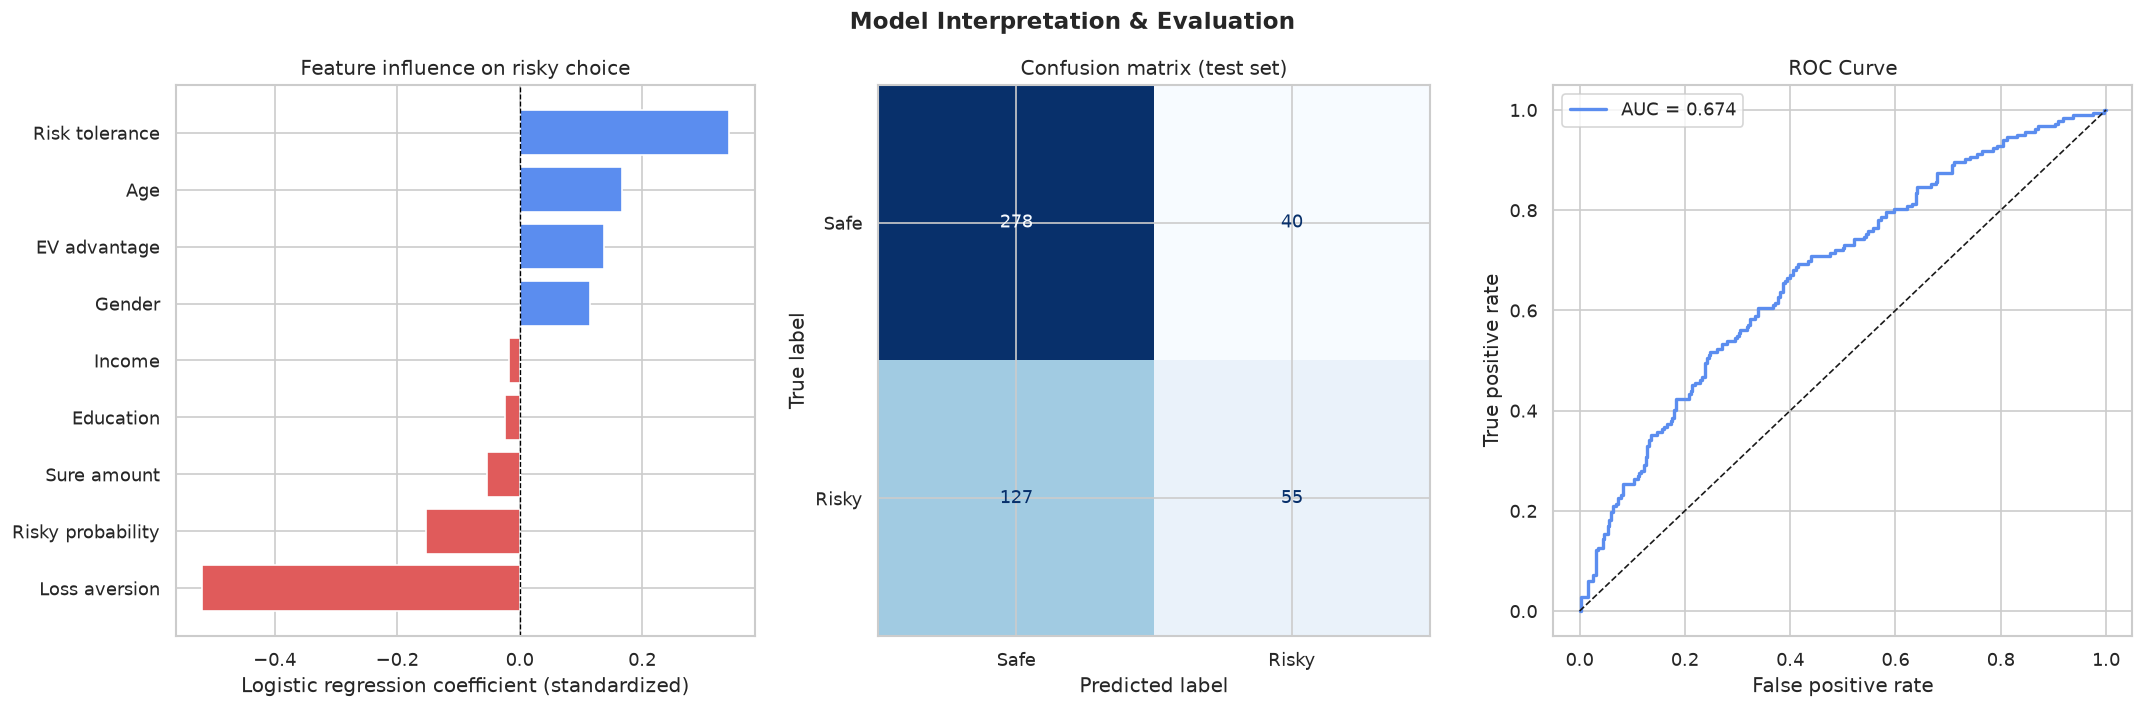
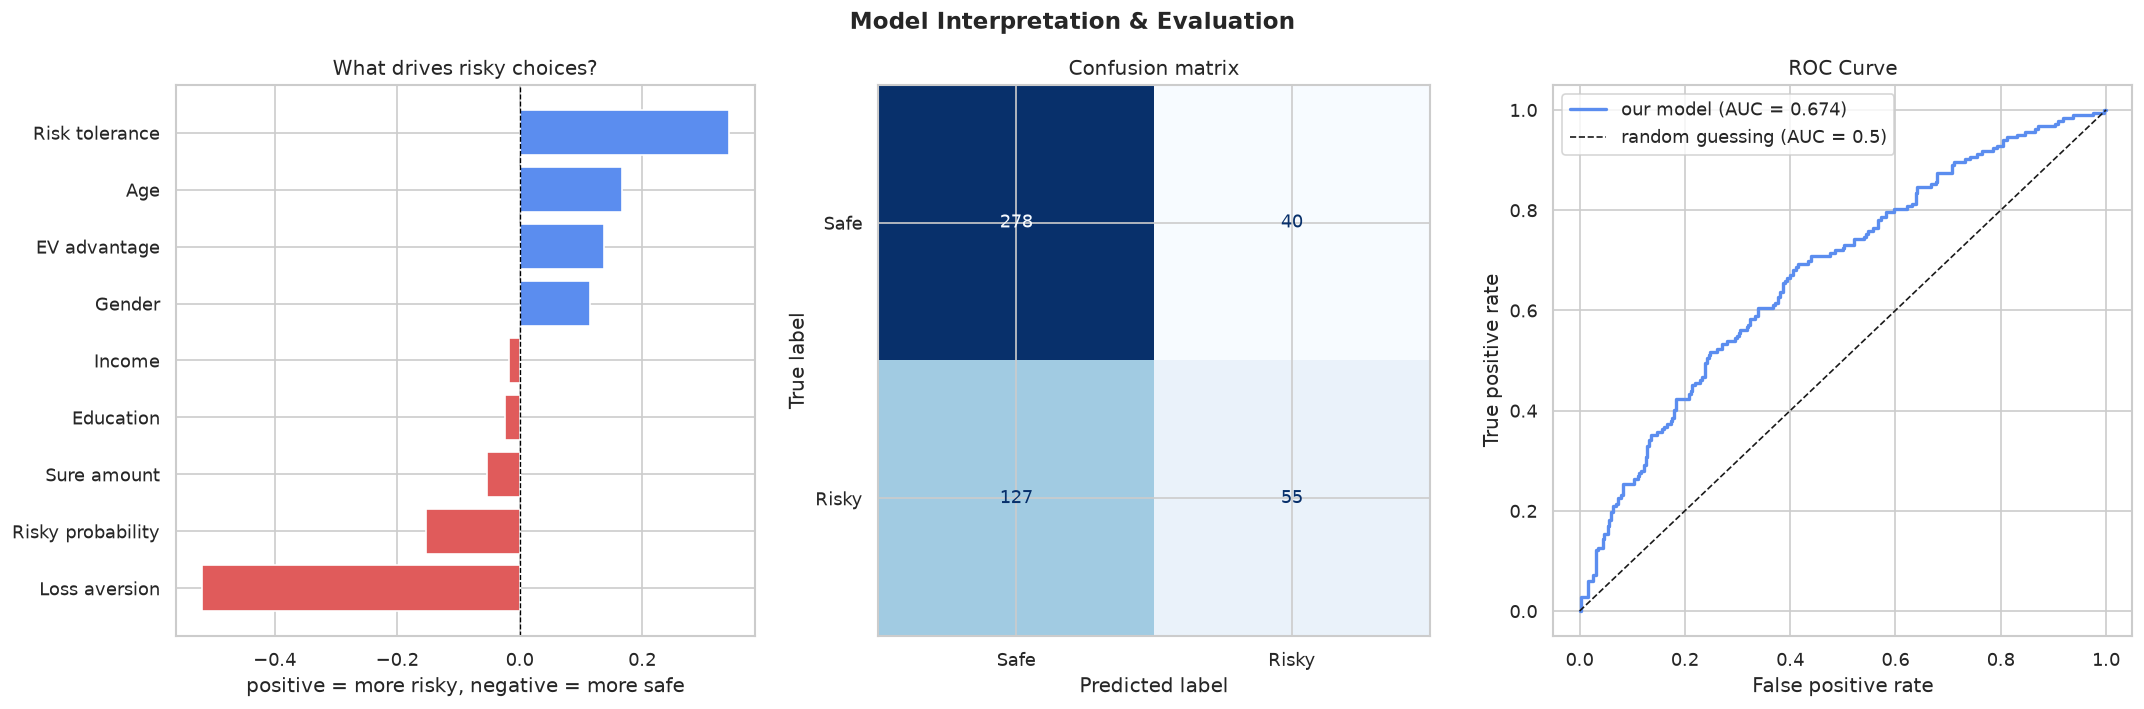
fix analysis.py

diff --git a/analysis.py b/analysis.py
@@ -126,7 +126,7 @@ df_model["ev_advantage"] = df_model["ev_risky"] - df_model["sure_amount"]
 df_model["gender_enc"] = LabelEncoder().fit_transform(df_model["gender"])
 df_model["edu_enc"]    = LabelEncoder().fit_transform(df_model["education"])
 df_model["income_enc"] = df_model["income"].map({
-    "<$20k": 0, "$20k-50k": 1, "$50k-100k": 2, "$100k+": 3
+    "<$20k": 0, "$20k–50k": 1, "$50k–100k": 2, "$100k+": 3
 })
 
 FEATURES = [